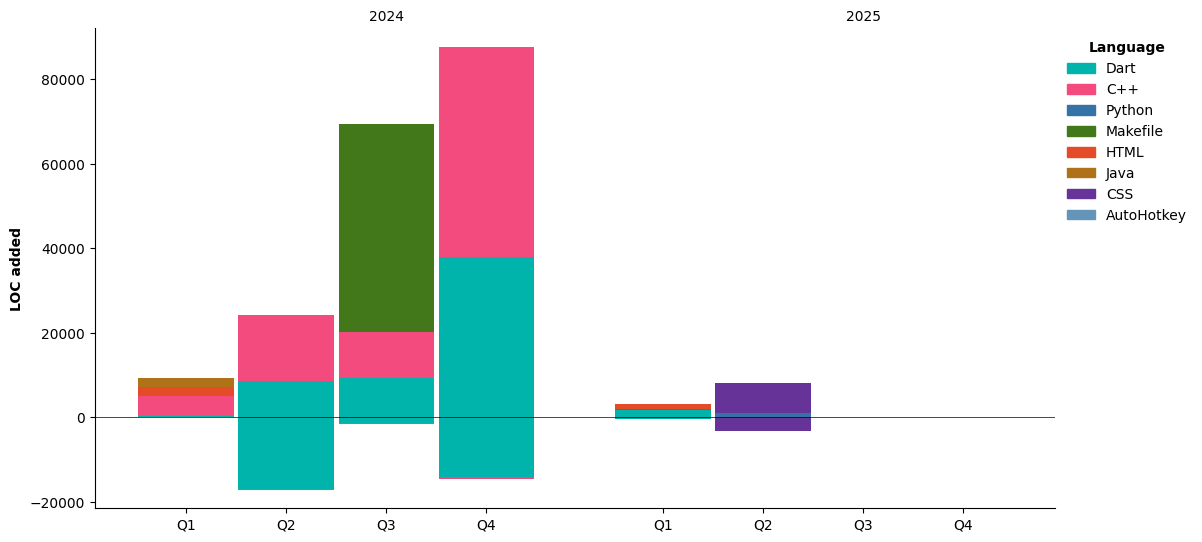
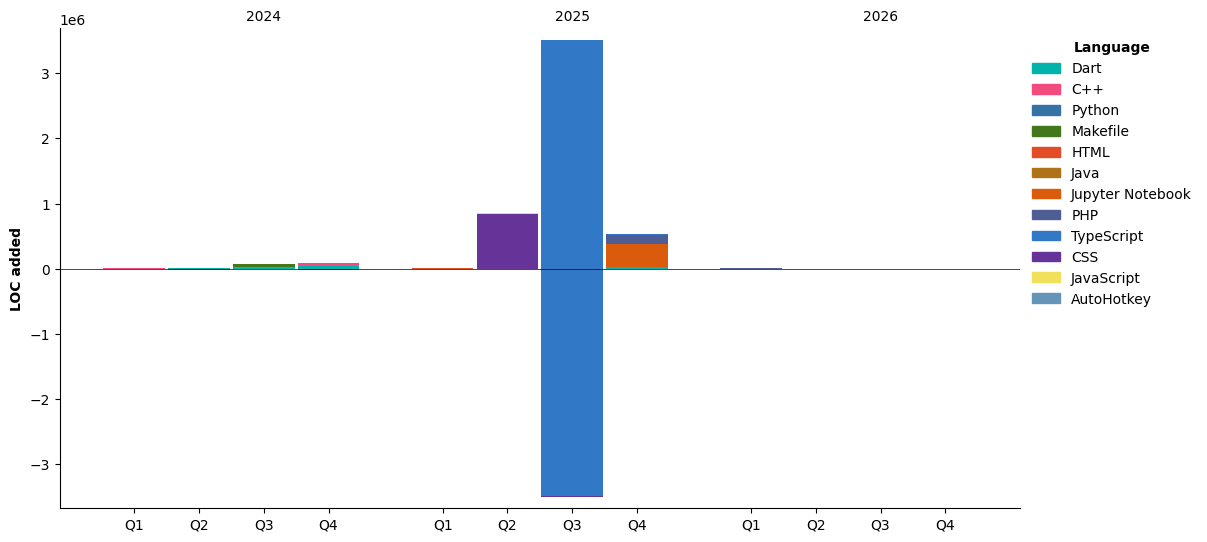
Updated with Dev Metrics

diff --git a/README.md b/README.md
@@ -31,24 +31,38 @@ I'm a Computer Science student at Bumigora University, indonesia, with a strong 
 </a>
 
 <!--START_SECTION:waka-->
+![Profile Views](http://img.shields.io/badge/Profile%20Views-5-blue?style=flat)
+
+**🐱 My GitHub Data** 
+
+> 📦 716.2 kB Used in GitHub's Storage 
+ > 
+> 🏆 41 Contributions in the Year 2026
+ > 
+> 🚫 Not Opted to Hire
+ > 
+> 📜 14 Public Repositories 
+ > 
+> 🔑 37 Private Repositories 
+ > 
 **I'm an Early 🐤** 
 
 ```text
-🌞 Morning                287 commits         █████████░░░░░░░░░░░░░░░░   36.19 % 
-🌆 Daytime                227 commits         ███████░░░░░░░░░░░░░░░░░░   28.63 % 
-🌃 Evening                267 commits         ████████░░░░░░░░░░░░░░░░░   33.67 % 
-🌙 Night                  12 commits          ░░░░░░░░░░░░░░░░░░░░░░░░░   01.51 % 
+🌞 Morning                447 commits         ██████████░░░░░░░░░░░░░░░   39.84 % 
+🌆 Daytime                286 commits         ██████░░░░░░░░░░░░░░░░░░░   25.49 % 
+🌃 Evening                372 commits         ████████░░░░░░░░░░░░░░░░░   33.16 % 
+🌙 Night                  17 commits          ░░░░░░░░░░░░░░░░░░░░░░░░░   01.52 % 
 ```
-📅 **I'm Most Productive on Saturday** 
+📅 **I'm Most Productive on Friday** 
 
 ```text
-Monday                   71 commits          ██░░░░░░░░░░░░░░░░░░░░░░░   08.95 % 
-Tuesday                  124 commits         ████░░░░░░░░░░░░░░░░░░░░░   15.64 % 
-Wednesday                90 commits          ███░░░░░░░░░░░░░░░░░░░░░░   11.35 % 
-Thursday                 131 commits         ████░░░░░░░░░░░░░░░░░░░░░   16.52 % 
-Friday                   135 commits         ████░░░░░░░░░░░░░░░░░░░░░   17.02 % 
-Saturday                 156 commits         █████░░░░░░░░░░░░░░░░░░░░   19.67 % 
-Sunday                   86 commits          ███░░░░░░░░░░░░░░░░░░░░░░   10.84 % 
+Monday                   112 commits         ██░░░░░░░░░░░░░░░░░░░░░░░   09.98 % 
+Tuesday                  188 commits         ████░░░░░░░░░░░░░░░░░░░░░   16.76 % 
+Wednesday                135 commits         ███░░░░░░░░░░░░░░░░░░░░░░   12.03 % 
+Thursday                 171 commits         ████░░░░░░░░░░░░░░░░░░░░░   15.24 % 
+Friday                   222 commits         █████░░░░░░░░░░░░░░░░░░░░   19.79 % 
+Saturday                 166 commits         ████░░░░░░░░░░░░░░░░░░░░░   14.80 % 
+Sunday                   128 commits         ███░░░░░░░░░░░░░░░░░░░░░░   11.41 % 
 ```
 
 
@@ -70,8 +84,24 @@ No Activity Tracked This Week
 No Activity Tracked This Week
 ```
 
+**I Mostly Code in Dart** 
 
- Last Updated on 06/08/2025 18:53:22 UTC
+```text
+Dart                     9 repos             █████░░░░░░░░░░░░░░░░░░░░   21.43 % 
+TypeScript               6 repos             ████░░░░░░░░░░░░░░░░░░░░░   14.29 % 
+C++                      6 repos             ████░░░░░░░░░░░░░░░░░░░░░   14.29 % 
+PHP                      4 repos             ██░░░░░░░░░░░░░░░░░░░░░░░   09.52 % 
+Jupyter Notebook         2 repos             █░░░░░░░░░░░░░░░░░░░░░░░░   04.76 % 
+```
+
+
+
+**Timeline**
+
+![Lines of Code chart](https://raw.githubusercontent.com/bert093/bert093/main/assets/bar_graph.png)
+
+
+ Last Updated on 14/01/2026 08:56:07 UTC
 <!--END_SECTION:waka-->
 
 #### 💻 Tech Stack:
